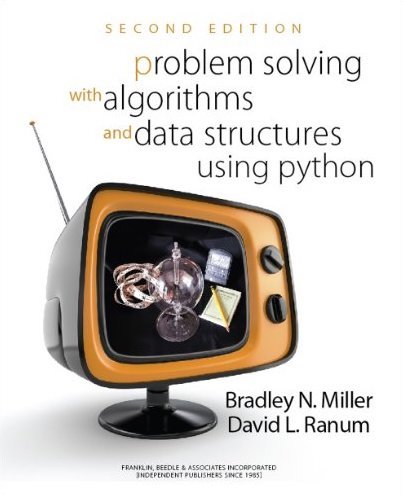
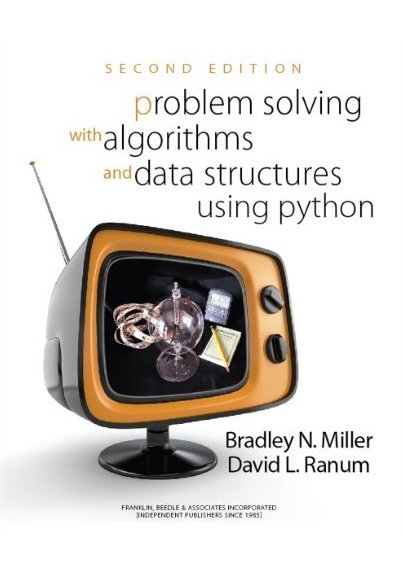
fix book cover sizing and position on library page

Changed region(s): [[0.0596, 0.5152, 0.9231, 0.9697], [0.0596, 0.0303, 0.9231, 0.4848], [0.1191, 0.5758, 0.1489, 0.6061]]

diff --git a/templates/library.html b/templates/library.html
@@ -10,46 +10,46 @@
 
     <p>My notes can be found below – this not an exhaustive list, only some of the notes taken since I began implementing this approach. Because of this, there may be some unresolved links to notes that I've not made public.</p>
 
-    <div class="preview-card book-card">
-      <a href="{% url 'note' source_title='21 Lessons for the 21st Century' note_title='📖 21 Lessons for the 21st Century' %}">
-        <img src="{% static 'img/covers/21-lessons.jpg' %}" alt="21 Lessons for the 21st Century by Yuval Noah Harari" class="book-cover">
-      </a>
-    </div>
-    
-    <div class="preview-card book-card">
-      <a href="{% url 'note' source_title='Django for Professionals' note_title='📖 Django for Professionals' %}">
-        <img src="{% static 'img/covers/django-for-pros.jpg' %}" alt="Django for professionals by William S. Vincent" class="book-cover">
-      </a>
-    </div>
-    
-    <div class="preview-card book-card">
-      <a href="{% url 'note' source_title='Effective Python' note_title='📖 Effective Python' %}">
-        <img src="{% static 'img/covers/effective-python.jpg' %}" alt="Effective Python by Brett Slatckin" class="book-cover">
-      </a>
-    </div>
-    
-    <div class="preview-card book-card">
-      <a href="{% url 'note' source_title='How to Take Smart Notes' note_title='📖 How to Take Smart Notes' %}">
-        <img src="{% static 'img/covers/smart-notes.jpg' %}" alt="How to take smart notes by Sönke Ahrens" class="book-cover">
-      </a>
-    </div>
-
-    <div class="preview-card book-card">
-      <a href="{% url 'note' source_title='Problem Solving with Algorithms and Data Structures using Python' note_title='📖 Problem Solving with Algorithms and Data Structures using Python' %}">
-        <img src="{% static 'img/covers/problem-solving.jpg' %}" alt="problem solving with algorithms and data strucutres by brandley miller and david ranum" class="book-cover">
-      </a>
-    </div>
-    
-    <div class="preview-card book-card">
-      <a href="{% url 'note' source_title='Python Cookbook' note_title='📖 Python Cookbook' %}">
-        <img src="{% static 'img/covers/python-cookbook.jpg' %}" alt="Python Cookbook by David Beazley and Brian K. Jones" class="book-cover">
-      </a>
-    </div>
-
-    <div class="preview-card book-card">
-      <a href="{% url 'note' source_title='Test Driven Development with Python' note_title='📖 Test Driven Development with Python' %}">
-        <img src="{% static 'img/covers/tdd-with-python.jpg' %}" alt="test-driven development with python by Harry J.W. Percival" class="book-cover">
-      </a>
+    <div class="container books-container">
+      <div class="preview-card book-card">
+        <a href="{% url 'note' source_title='21 Lessons for the 21st Century' note_title='📖 21 Lessons for the 21st Century' %}">
+          <img src="{% static 'img/covers/21-lessons.jpg' %}" alt="21 Lessons for the 21st Century by Yuval Noah Harari" class="media__photo book-cover pos--center">
+        </a>
+      </div>
+      
+      <div class="preview-card book-card">
+        <a href="{% url 'note' source_title='Django for Professionals' note_title='📖 Django for Professionals' %}">
+          <img src="{% static 'img/covers/django-for-pros.jpg' %}" alt="Django for professionals by William S. Vincent" class="media__photo book-cover pos--center">
+        </a>
+      </div>
+      
+      <div class="preview-card book-card">
+        <a href="{% url 'note' source_title='Effective Python' note_title='📖 Effective Python' %}">
+          <img src="{% static 'img/covers/effective-python.jpg' %}" alt="Effective Python by Brett Slatckin" class="media__photo book-cover pos--center">
+        </a>
+      </div>
+      
+      <div class="preview-card book-card">
+        <a href="{% url 'note' source_title='How to Take Smart Notes' note_title='📖 How to Take Smart Notes' %}">
+          <img src="{% static 'img/covers/smart-notes.jpg' %}" alt="How to take smart notes by Sönke Ahrens" class="media__photo book-cover pos--top">
+        </a>
+      </div>
+      <div class="preview-card book-card">
+        <a href="{% url 'note' source_title='Problem Solving with Algorithms and Data Structures using Python' note_title='📖 Problem Solving with Algorithms and Data Structures using Python' %}">
+          <img src="{% static 'img/covers/problem-solving.jpg' %}" alt="problem solving with algorithms and data strucutres by brandley miller and david ranum" class="media__photo book-cover pos--center">
+        </a>
+      </div>
+      
+      <div class="preview-card book-card">
+        <a href="{% url 'note' source_title='Python Cookbook' note_title='📖 Python Cookbook' %}">
+          <img src="{% static 'img/covers/python-cookbook.jpg' %}" alt="Python Cookbook by David Beazley and Brian K. Jones" class="media__photo book-cover pos--center">
+        </a>
+      </div>
+      <div class="preview-card book-card">
+        <a href="{% url 'note' source_title='Test Driven Development with Python' note_title='📖 Test Driven Development with Python' %}">
+          <img src="{% static 'img/covers/tdd-with-python.jpg' %}" alt="test-driven development with python by Harry J.W. Percival" class="media__photo book-cover pos--center">
+        </a>
+      </div>
     </div>
 
   </div>

diff --git a/static/css/base.css b/static/css/base.css
@@ -357,10 +357,6 @@ nav {
     margin-top: 0;
 }
 
-.preview-card.book-card {
-    max-width: 300px;
-}
-
 .card__content {
     padding: 0 0.8rem;
 }
@@ -384,8 +380,7 @@ nav {
 }
 
 .site-demo,
-.music-clip,
-.book-cover {
+.music-clip {
     width: 100%;
     max-width: var(--vid-max-width);
     border-bottom: 1px solid var(--col-accent);
@@ -428,6 +423,48 @@ nav {
 
 
 /*---------------------------*\
+    #NOTES
+\*---------------------------*/
+.books-container {
+    flex-wrap: wrap;
+    padding: 0;
+    margin: 0 -0.8rem;
+}
+
+.preview-card.book-card {
+    width: 44%;
+    flex-shrink: 1;
+    margin: 1.2rem 0.8rem;
+}
+
+.book-cover {
+    max-height: 320px;
+    max-width: 100%;
+    object-fit: cover;
+}
+
+.book-cover.pos--center {
+    object-position: center;
+}
+
+.book-cover.pos--top {
+    object-position: top;
+}
+
+.book-cover.pos--bottom {
+    object-position: bottom;
+}
+
+@media screen and (min-width: 830px) {
+    .preview-card.book-card {
+        max-width: 250px;
+    }
+}
+
+
+
+
+/*---------------------------*\
     #MEDIA
 \*---------------------------*/
 
@@ -444,8 +481,7 @@ nav {
 }
 
 .media__video,
-.media__photo,
-.book-cover {
+.media__photo {
     width: 100%;
     display: block;
     border-radius: 2px;
